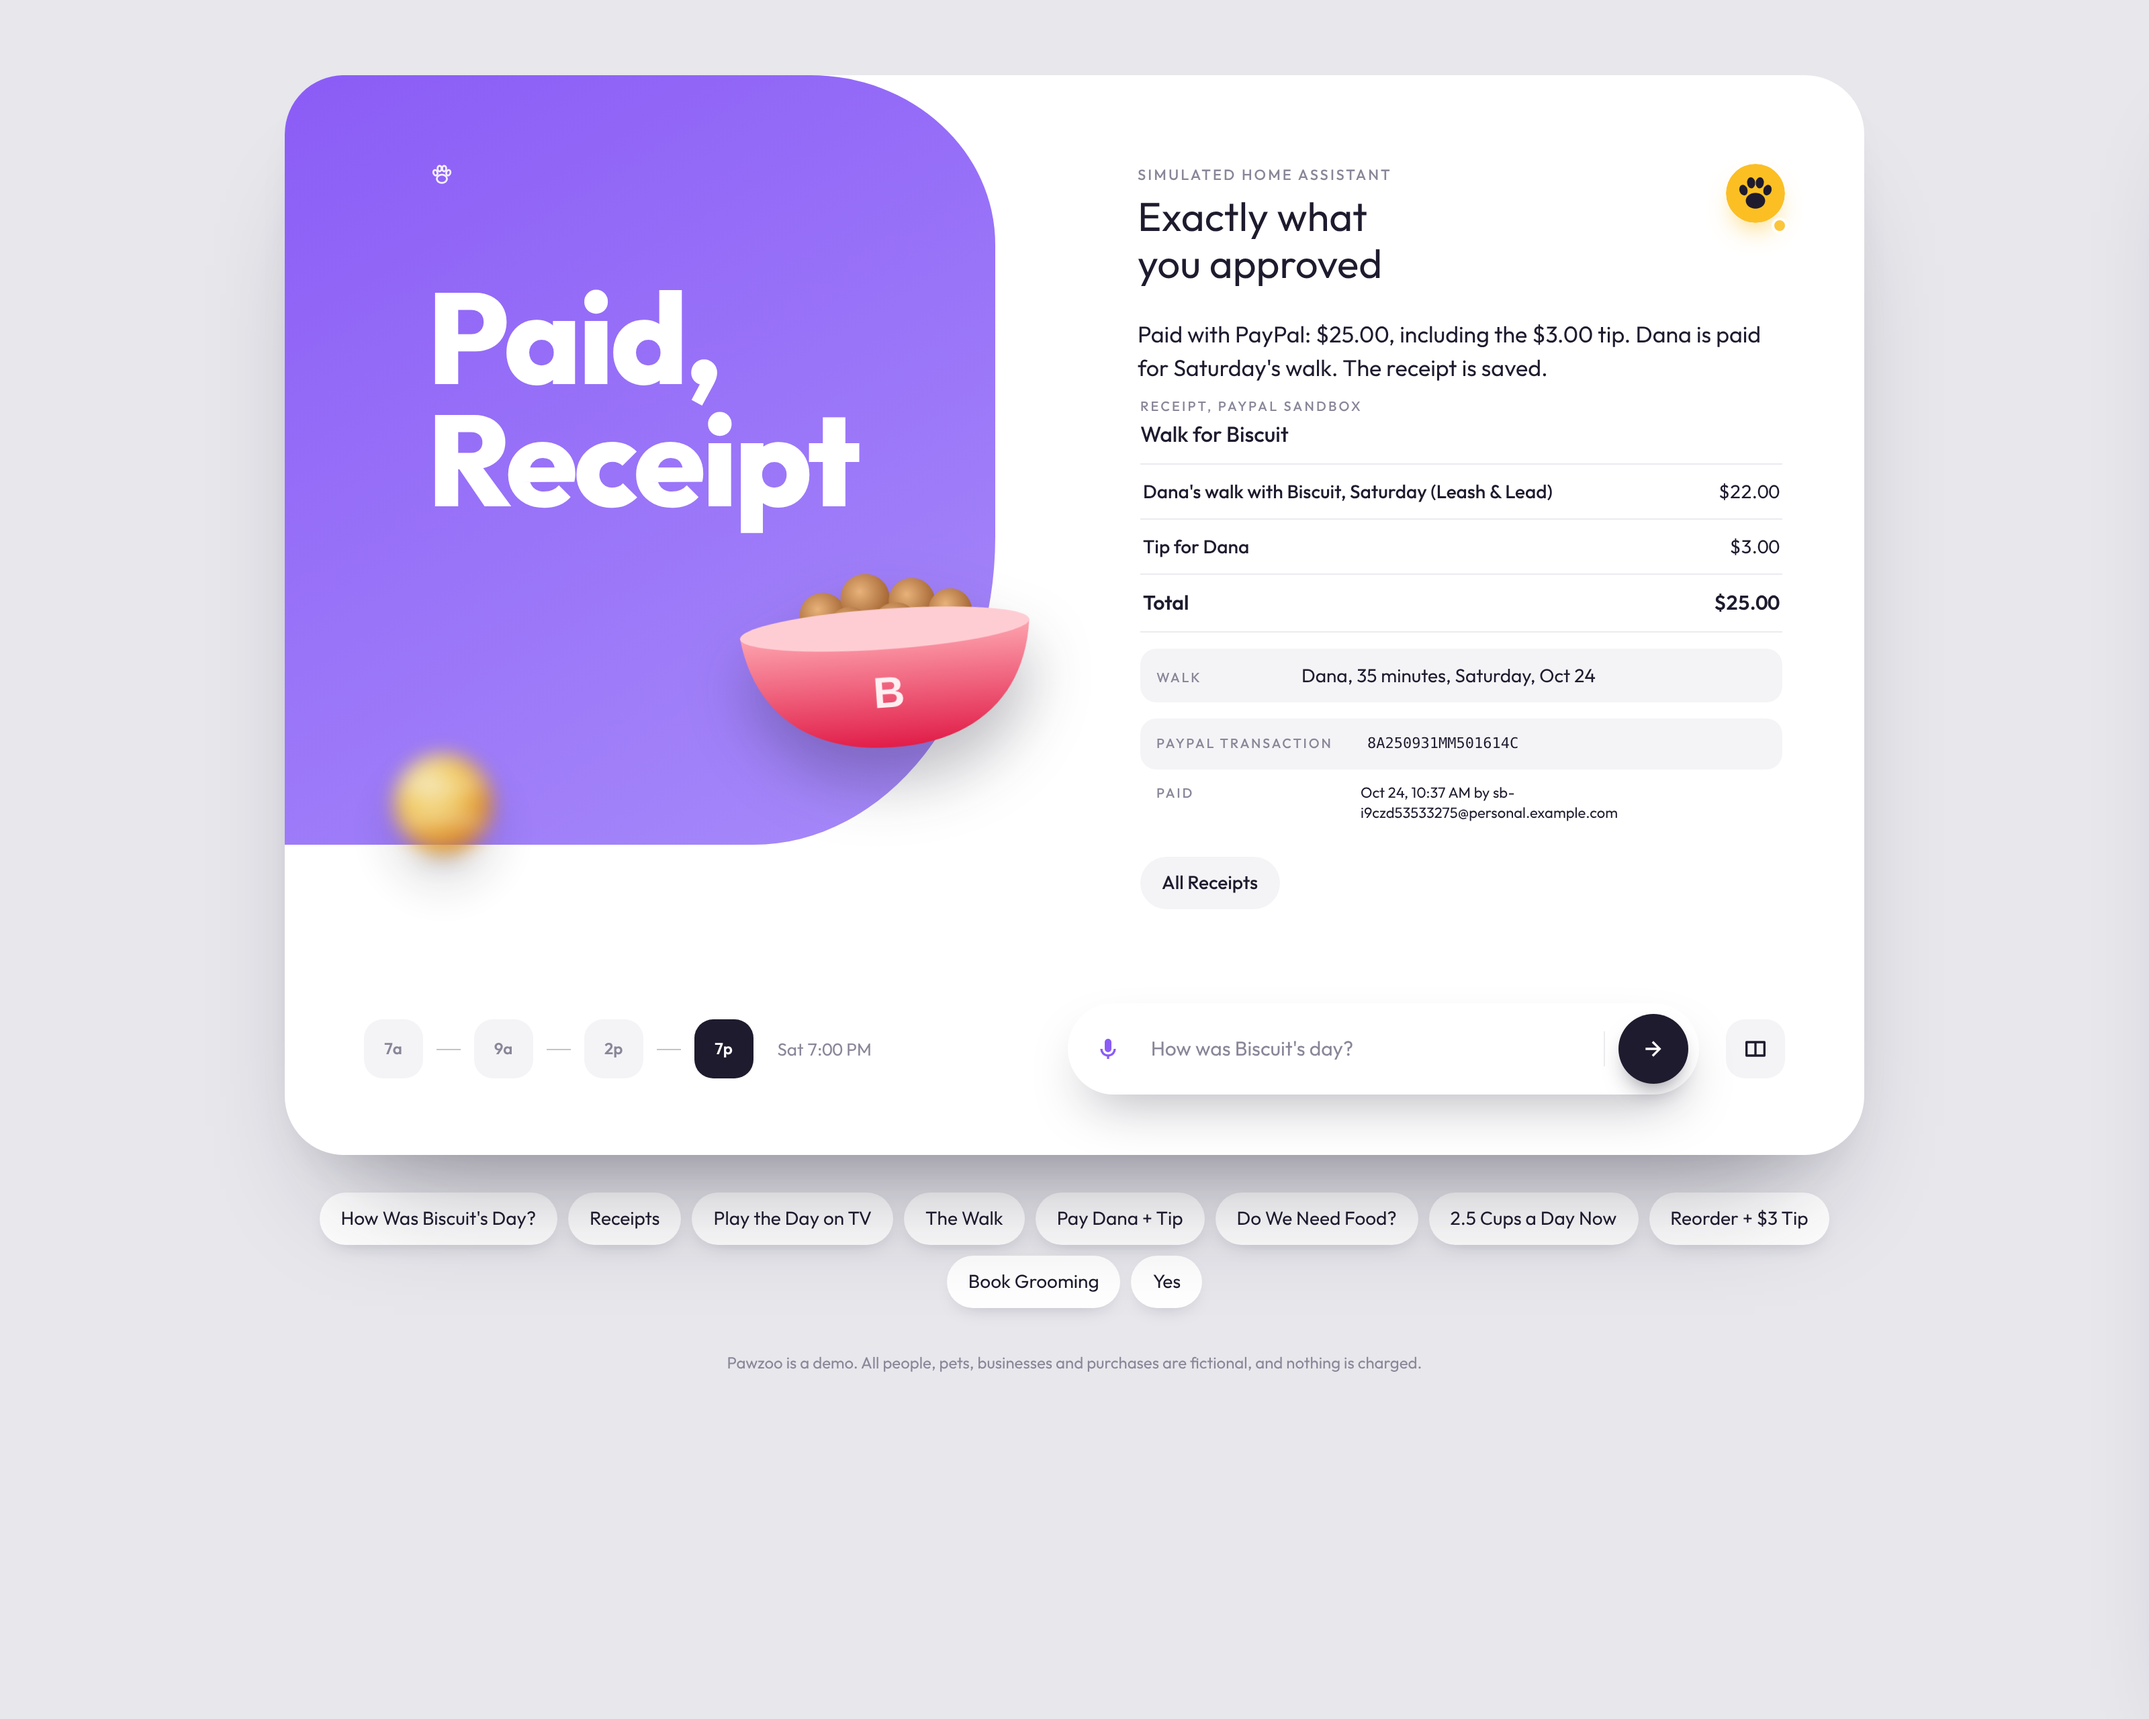
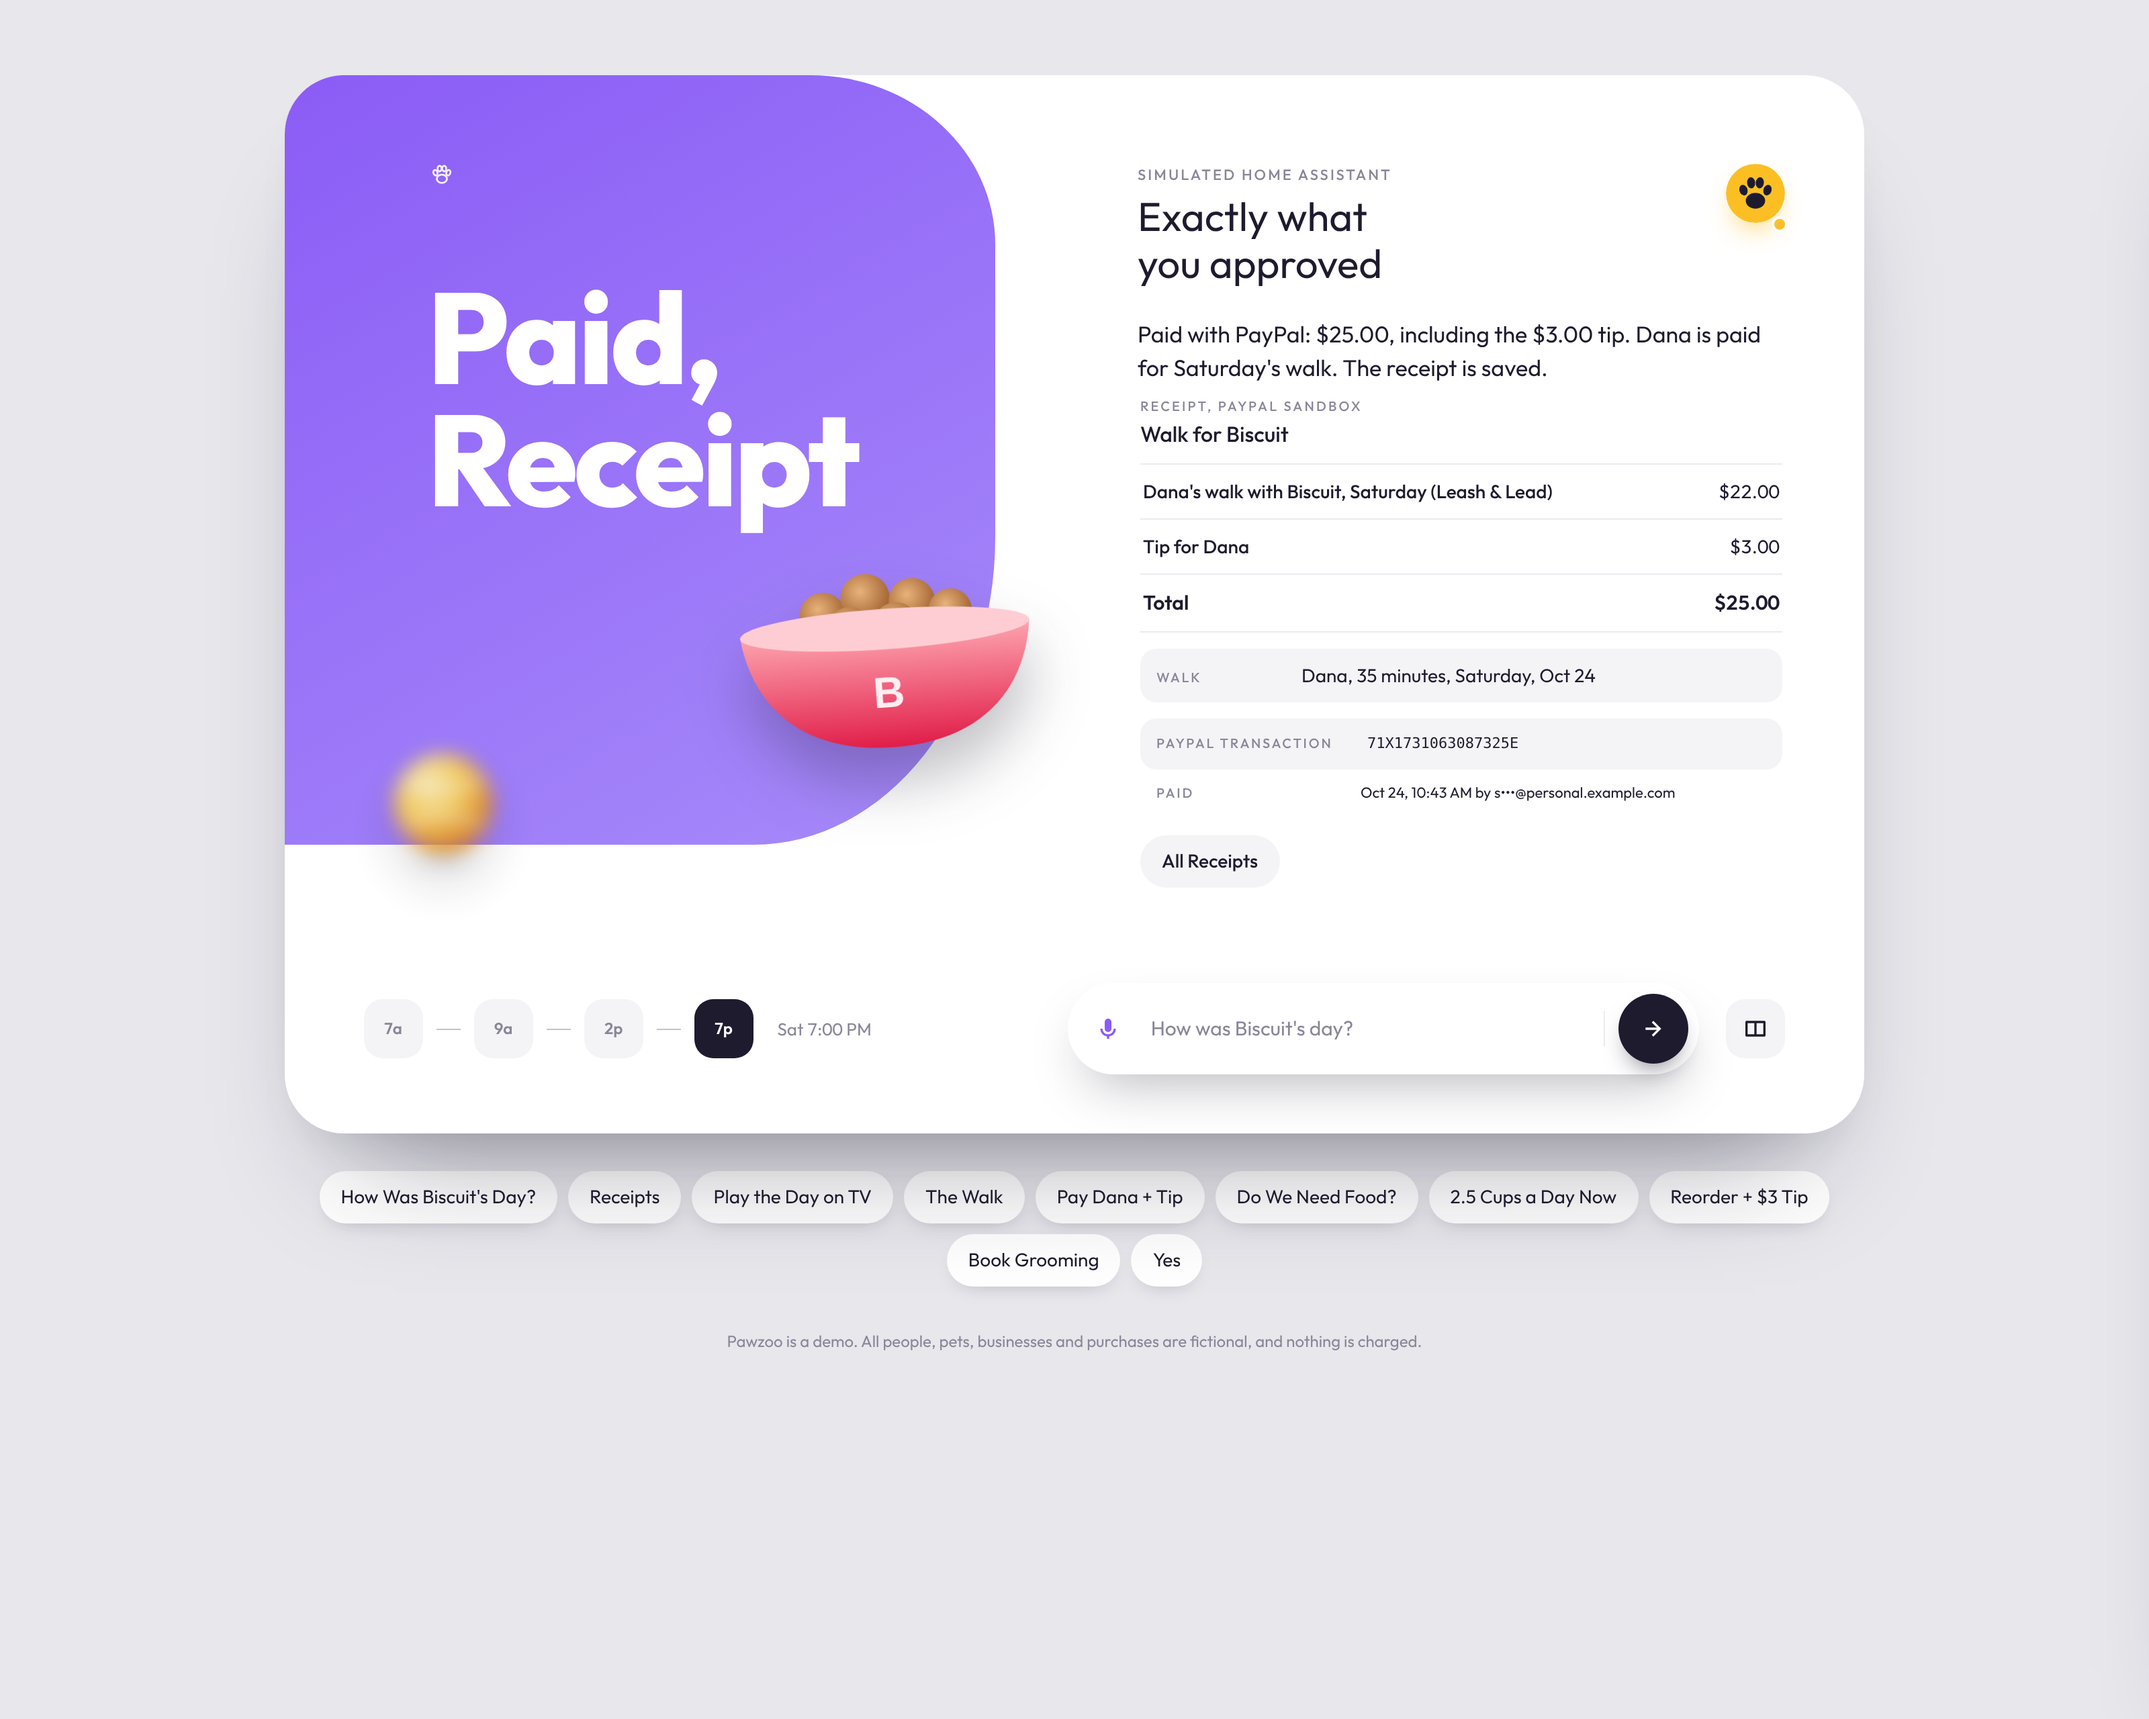
Mask the payer's PayPal account on receipts; thumbnails and Devpost text
Receipts show the PayPal account as s•••@example.com: enough to recognise,
not enough to copy. Film stills recaptured with the masked receipts.

Claude-Session: https://claude.ai/code/session_013f1sAe64TqFkDagamZiBgh

diff --git a/film/thumbnail/thumbnail.html b/film/thumbnail/thumbnail.html
@@ -1,0 +1,29 @@
+<!doctype html>
+<html lang="en">
+<head>
+<meta charset="utf-8">
+<title>Pawzoo Thumbnail</title>
+<style>
+@font-face { font-family: 'Outfit'; src: url('../public/fonts/outfit-variable.woff2') format('woff2'); font-weight: 300 800; }
+* { box-sizing: border-box; }
+html, body { margin: 0; }
+body { width: var(--w); height: var(--h); overflow: hidden; font-family: 'Outfit', sans-serif; background: radial-gradient(80% 90% at 30% 30%, #f6f6f9, #e7e7ec 70%); position: relative; color: #1f1b2e; }
+.copy { position: absolute; left: 6%; top: 50%; transform: translateY(-50%); width: 44%; }
+.brand { display: flex; align-items: center; gap: 16px; font-weight: 800; font-size: calc(var(--h) * 0.07); letter-spacing: -0.03em; }
+.brand img { width: calc(var(--h) * 0.085); height: calc(var(--h) * 0.085); }
+h1 { margin: calc(var(--h) * 0.04) 0 0; font-size: calc(var(--h) * 0.1); line-height: 1.02; font-weight: 700; letter-spacing: -0.03em; }
+h1 span { color: #8b5cf6; }
+p { margin: calc(var(--h) * 0.03) 0 0; font-size: calc(var(--h) * 0.04); color: #6b6880; font-weight: 500; line-height: 1.3; }
+.shot { position: absolute; right: 5%; top: 50%; width: 42%; transform: translateY(-50%) perspective(1600px) rotateY(-8deg); background: #fff; padding: 2.2% 2.6%; border-radius: 18px; overflow: hidden; box-shadow: 0 50px 100px rgba(31,27,46,0.28); }
+.shot img { display: block; width: 100%; }
+</style>
+</head>
+<body>
+<div class="copy">
+  <div class="brand"><img src="../public/logo.svg" alt="">Pawzoo</div>
+  <h1>It proposes. You approve. <span>PayPal pays.</span></h1>
+  <p>A pet-care agent with a receipt for every refill and every tip.</p>
+</div>
+<div class="shot"><img src="clip.png" alt=""></div>
+</body>
+</html>

diff --git a/server/views/card.ts b/server/views/card.ts
@@ -117,6 +117,9 @@ function paypalCard(d: Any): string {
     ${button('I Approved It', 'capture_paypal_order', { order_id: p.orderId }, 'quiet')}</div>`;
 }
 
+/** Receipts show the payer's PayPal account without spelling out the address: s•••@example.com. */
+const maskEmail = (e: string) => e.replace(/^([^@])[^@]*(@.*)$/, '$1•••$2');
+
 const day = (iso: string) => when(`${iso}T17:00:00Z`, { weekday: 'long', month: 'short', day: 'numeric' });
 
 function receiptCard(d: Any): string {
@@ -127,7 +130,7 @@ function receiptCard(d: Any): string {
   const walk = r.walk ? `<ul class="facts"><li><b>Walk</b> ${esc(r.walk.walker)}, ${String(r.walk.minutes)} minutes, ${esc(day(r.walk.date))}</li></ul>` : '';
   return `<header><p class="eyebrow">Receipt${r.gateway === 'stand-in' ? ', offline stand-in' : ', PayPal sandbox'}</p><h1>${esc(r.title)}</h1></header>
     ${lineRows(r.lines, r.totalUsd)}${food}${walk}
-    <ul class="facts small"><li><b>PayPal transaction</b> <code>${esc(r.transactionId)}</code></li><li><b>Paid</b> ${esc(when(r.capturedAt, { month: 'short', day: 'numeric', hour: 'numeric', minute: '2-digit' }))}${r.payer ? ` by ${esc(r.payer)}` : ''}</li></ul>
+    <ul class="facts small"><li><b>PayPal transaction</b> <code>${esc(r.transactionId)}</code></li><li><b>Paid</b> ${esc(when(r.capturedAt, { month: 'short', day: 'numeric', hour: 'numeric', minute: '2-digit' }))}${r.payer ? ` by ${esc(maskEmail(r.payer))}` : ''}</li></ul>
     <div class="actions">${button('All Receipts', 'order_receipt', { limit: 5 }, 'quiet')}</div>`;
 }
 

diff --git a/server/src/agent.ts b/server/src/agent.ts
@@ -459,7 +459,8 @@ export function completePayment(state: State, orderId: string, capture: { captur
     totalUsd: payment.totalUsd,
     paypalOrderId: orderId,
     transactionId: capture.captureId,
-    payer: capture.payerEmail,
+    // The PayPal account, masked: enough to recognise it, not enough to copy it.
+    payer: capture.payerEmail ? capture.payerEmail.replace(/^([^@])[^@]*(@.*)$/, '$1•••$2') : null,
     capturedAt: capture.capturedAt,
     gateway: payment.gateway,
   };

diff --git a/docs/SUBMISSION.md b/docs/SUBMISSION.md
@@ -1,0 +1,89 @@
+# Devpost Submission Draft
+
+Copy each section into the Devpost form.
+- **Hackathon:** PayPal AI Hackathon 2026.
+- **Deadline:** November 12, 2026, 20:00 UTC (confirm on the official page).
+- **Prize target:** Best Use of Agentic Commerce; also eligible for the grand prizes.
+
+## Links
+
+- **Demo video (YouTube, about 1:22):** to add once uploaded (file: `film/out/PawzooLandscape.mp4`, rendered from the repo).
+- **Repository (public, MIT license):** https://github.com/asiyetajwa/pawzoo-paypal
+- **Thumbnail:** `docs/thumbnail.jpg` (3:2) and `docs/thumbnail-youtube.jpg` (16:9).
+
+The film shows real PayPal sandbox payments, approved by a sandbox buyer on PayPal's own checkout. The narration is an ElevenLabs voice.
+
+## Project name
+
+Pawzoo
+
+## Tagline
+
+A pet-care agent that pays for refills, walks and tips with PayPal, only after you approve the exact total on PayPal, and keeps a receipt for every pet.
+
+## Built with
+
+TypeScript, Node.js, Express, PayPal Agent Toolkit, PayPal Orders v2 (sandbox), Model Context Protocol, MCP Apps, Claude Haiku 5.5, Anthropic API, Remotion, Playwright, ElevenLabs
+
+## Description
+
+### Built on Pawzoo
+
+Pawzoo started as a pet-care agent we made earlier this year: an MCP server that turns home camera events into a dog's day, with a simulator and interactive cards. It could quote an order, but it never moved money.
+
+New for this entry:
+- PayPal payments through PayPal's Agent Toolkit;
+- the owner's approval on PayPal;
+- verified capture;
+- itemized receipts per pet, with tips;
+- the receipt history.
+
+The repository starts with one commit importing that base, and every commit after it is new work.
+
+### Inspiration
+
+Agents that buy things for you are only useful if you can trust them with your money. For a pet, the purchases are small and constant: food that runs out on a schedule, a walker to pay and tip every week. We wanted an agent that handles those, proposes each one with the exact price, never pays without you, and leaves a paper trail you can check.
+
+### What it does
+
+Pawzoo watches the dog's day on home cameras and keeps count of her food. When she is running low:
+1. **It proposes.** "Hearth & Hound Salmon & Rice, 24 lb bag, is $58.99, plus a $3.00 tip for the driver: $61.99 in all, paid with PayPal. Shall I set it up?" Nothing is bought.
+2. **You say yes.** Pawzoo creates a PayPal order through PayPal's Agent Toolkit, for exactly those line items. Still no money moves.
+3. **You approve on PayPal,** in PayPal's own checkout.
+4. **Pawzoo verifies, then captures.** It asks PayPal for the order again and captures only if PayPal reports it APPROVED for exactly the quoted total. A cancelled order is never charged; an order is captured once.
+5. **The receipt:** the items, the tip, the total, the PayPal transaction id, the date, and for food the delivery date, how long a bag lasts at her current rate and her next predicted run-out.
+
+Tips are line items on the same order: one approval, one capture, one receipt showing both lines, whether it is the delivery driver or the dog walker. Every receipt is kept per pet, so the history shows the loop working week after week.
+
+### How we built it
+
+- **An MCP server** (Streamable HTTP, spec 2025-11-25) with MCP Apps cards. Any MCP host can use it. The tools are:
+  - `propose_reorder`, `quote_walk_payment`
+  - `create_paypal_order`, `capture_paypal_order`
+  - `order_receipt`
+- **PayPal Agent Toolkit** (TypeScript): `create_order`, `get_order` and `pay_order` against Orders v2 in the sandbox, with return and cancel URLs back to Pawzoo.
+- **Deterministic money logic:** quotes, line items, totals, the approval check and the receipts are plain code. The model, Claude Haiku 5.5, only picks tools and phrases answers, behind a spending cap enforced in code.
+- **A simulator** that is a real MCP client, and an **offline stand-in for PayPal**: clearly labelled, same rules, no money, for running without credentials.
+- **Tests** for the whole loop, including approval before capture, the exact-total check, cancellation and one-time capture.
+
+### Challenges we ran into
+
+- **PayPal's create response leaves out the amounts.** In our first live sandbox run, Pawzoo's own check refused to go ahead because the order total read as zero. The guard worked; we now read the order back from PayPal and verify its total before showing the approval link.
+- **The toolkit wraps captures** as `{status, response}`, so our capture parser had to unwrap it.
+- **Keeping the history honest.** Receipts survive the demo's daily reset, and every receipt in the film is a real sandbox capture with its PayPal transaction id.
+
+### Accomplishments that we're proud of
+
+- **An agent that cannot pay on its own.** It proposes, you approve on PayPal, and the capture is checked against the exact total.
+- **Receipts a person can check:** the PayPal transaction id is on every one.
+- **Tips as first-class line items,** for the delivery driver and the dog walker.
+
+### What we learned
+
+Agentic commerce is mostly about the boundary between "the agent decided" and "the person agreed". Putting that boundary on PayPal's own approval page, and checking it again before capture, made the agent simpler, not harder.
+
+### What's next for Pawzoo
+
+- Recurring refills on a predicted schedule, each one still approved by the owner.
+- Refunds through the toolkit when a delivery goes wrong.
+- More pets per household, each with its own receipts.
